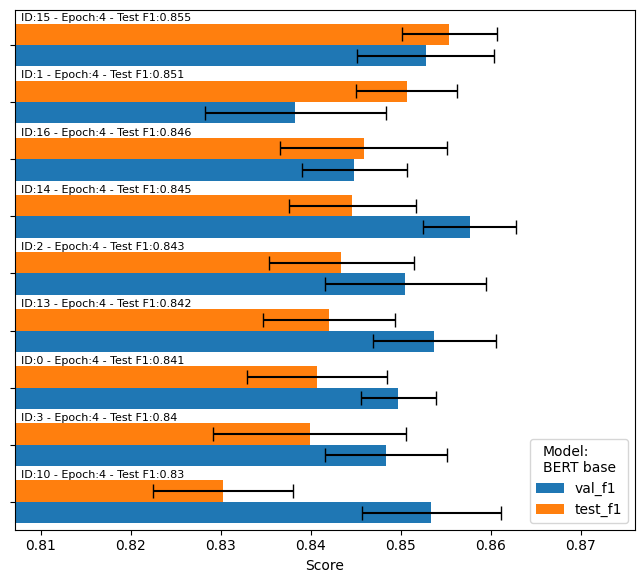
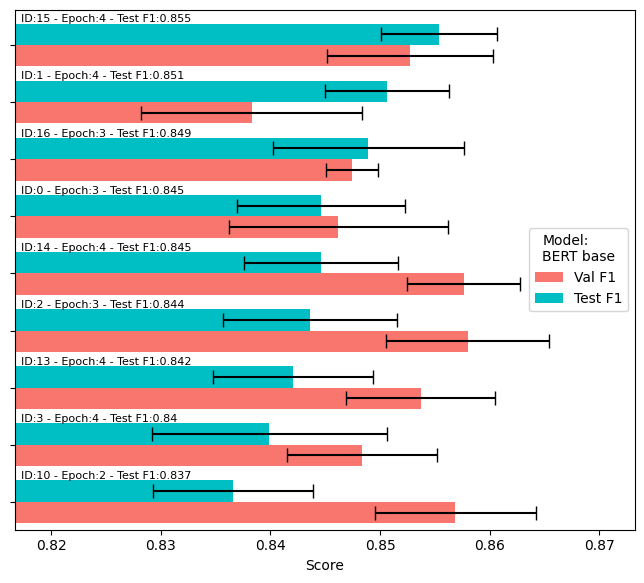
Chart and tables ID fixes

diff --git a/images_tables/1_hate_speech/monolingual_setting/Incel BERT 1M ALL IDs.tex b/images_tables/1_hate_speech/monolingual_setting/Incel BERT 1M ALL IDs.tex
@@ -1,23 +1,23 @@
 \begin{tabular}{rrlrrrrrrrr}
 \toprule
- run\_id &  epoch &         model &  val\_f1 &  val\_f1\_std &  val\_rec &  val\_prec &  test\_f1 &  test\_f1\_std &  test\_rec &  test\_prec \\
+ ID &  Epoch &         Model &  Val F1 &  Val F1 St.Dev &  Val Rec &  Val Prec &  Test F1 &  Test F1 St.Dev &  Test Rec &  Test Prec \\
 \midrule
-      0 &      4 & Incel BERT 1M &   0.875 &       0.005 &    0.894 &     0.856 &    0.872 &        0.006 &     0.883 &      0.861 \\
-     11 &      4 & Incel BERT 1M &   0.883 &       0.001 &    0.891 &     0.875 &    0.866 &        0.001 &     0.878 &      0.855 \\
-     15 &      4 & Incel BERT 1M &   0.859 &       0.004 &    0.861 &     0.858 &    0.865 &        0.004 &     0.884 &      0.848 \\
-     16 &      4 & Incel BERT 1M &   0.860 &       0.007 &    0.887 &     0.835 &    0.856 &        0.005 &     0.888 &      0.826 \\
-     13 &      4 & Incel BERT 1M &   0.873 &       0.006 &    0.878 &     0.869 &    0.855 &        0.005 &     0.867 &      0.842 \\
-      1 &      4 & Incel BERT 1M &   0.857 &       0.004 &    0.870 &     0.845 &    0.854 &        0.002 &     0.885 &      0.826 \\
-     14 &      4 & Incel BERT 1M &   0.876 &       0.006 &    0.887 &     0.864 &    0.853 &        0.005 &     0.873 &      0.833 \\
-     10 &      4 & Incel BERT 1M &   0.879 &       0.003 &    0.887 &     0.872 &    0.853 &        0.003 &     0.860 &      0.845 \\
-      2 &      4 & Incel BERT 1M &   0.886 &       0.004 &    0.908 &     0.866 &    0.852 &        0.003 &     0.860 &      0.844 \\
-      3 &      4 & Incel BERT 1M &   0.876 &       0.003 &    0.886 &     0.866 &    0.842 &        0.011 &     0.862 &      0.823 \\
-      5 &      4 & Incel BERT 1M &   0.705 &       0.013 &    0.674 &     0.741 &    0.752 &        0.008 &     0.783 &      0.725 \\
-      6 &      4 & Incel BERT 1M &   0.627 &       0.009 &    0.601 &     0.655 &    0.652 &        0.005 &     0.944 &      0.498 \\
-      7 &      4 & Incel BERT 1M &   0.562 &       0.019 &    0.472 &     0.694 &    0.638 &        0.015 &     0.588 &      0.700 \\
-     12 &      4 & Incel BERT 1M &   0.490 &       0.012 &    0.351 &     0.816 &    0.582 &        0.017 &     0.438 &      0.868 \\
-      4 &      4 & Incel BERT 1M &   0.559 &       0.004 &    0.443 &     0.756 &    0.542 &        0.009 &     0.442 &      0.702 \\
-      9 &      4 & Incel BERT 1M &   0.501 &       0.009 &    0.535 &     0.471 &    0.494 &        0.009 &     0.507 &      0.483 \\
-      8 &      4 & Incel BERT 1M &   0.346 &       0.004 &    0.629 &     0.239 &    0.344 &        0.002 &     0.601 &      0.241 \\
+  0 &      4 & Incel BERT 1M &   0.875 &          0.005 &    0.894 &     0.856 &    0.872 &           0.006 &     0.883 &      0.861 \\
+ 11 &      4 & Incel BERT 1M &   0.883 &          0.001 &    0.891 &     0.875 &    0.866 &           0.001 &     0.878 &      0.855 \\
+ 15 &      4 & Incel BERT 1M &   0.859 &          0.004 &    0.861 &     0.858 &    0.865 &           0.004 &     0.884 &      0.848 \\
+ 16 &      3 & Incel BERT 1M &   0.859 &          0.002 &    0.882 &     0.838 &    0.859 &           0.002 &     0.882 &      0.838 \\
+ 13 &      1 & Incel BERT 1M &   0.858 &          0.003 &    0.789 &     0.940 &    0.857 &           0.008 &     0.804 &      0.918 \\
+  1 &      2 & Incel BERT 1M &   0.864 &          0.005 &    0.877 &     0.850 &    0.857 &           0.005 &     0.879 &      0.836 \\
+ 14 &      3 & Incel BERT 1M &   0.875 &          0.006 &    0.891 &     0.860 &    0.856 &           0.008 &     0.875 &      0.838 \\
+ 10 &      1 & Incel BERT 1M &   0.866 &          0.003 &    0.878 &     0.854 &    0.855 &           0.003 &     0.877 &      0.833 \\
+  2 &      4 & Incel BERT 1M &   0.886 &          0.004 &    0.908 &     0.866 &    0.852 &           0.003 &     0.860 &      0.844 \\
+  3 &      2 & Incel BERT 1M &   0.869 &          0.007 &    0.887 &     0.851 &    0.845 &           0.005 &     0.874 &      0.818 \\
+  5 &      2 & Incel BERT 1M &   0.699 &          0.017 &    0.641 &     0.770 &    0.753 &           0.012 &     0.758 &      0.750 \\
+  6 &      4 & Incel BERT 1M &   0.627 &          0.009 &    0.601 &     0.655 &    0.652 &           0.005 &     0.944 &      0.498 \\
+  7 &      3 & Incel BERT 1M &   0.566 &          0.011 &    0.494 &     0.664 &    0.647 &           0.014 &     0.612 &      0.686 \\
+ 12 &      4 & Incel BERT 1M &   0.490 &          0.012 &    0.351 &     0.816 &    0.582 &           0.017 &     0.438 &      0.868 \\
+  4 &      4 & Incel BERT 1M &   0.559 &          0.004 &    0.443 &     0.756 &    0.542 &           0.009 &     0.442 &      0.702 \\
+  9 &      3 & Incel BERT 1M &   0.516 &          0.006 &    0.558 &     0.480 &    0.519 &           0.005 &     0.538 &      0.502 \\
+  8 &      4 & Incel BERT 1M &   0.346 &          0.004 &    0.629 &     0.239 &    0.344 &           0.002 &     0.601 &      0.241 \\
 \bottomrule
 \end{tabular}

diff --git a/images_tables/1_hate_speech/monolingual_setting/BERT base ALL IDs.tex b/images_tables/1_hate_speech/monolingual_setting/BERT base ALL IDs.tex
@@ -1,23 +1,23 @@
 \begin{tabular}{rrlrrrrrrrr}
 \toprule
- run\_id &  epoch &     model &  val\_f1 &  val\_f1\_std &  val\_rec &  val\_prec &  test\_f1 &  test\_f1\_std &  test\_rec &  test\_prec \\
+ ID &  Epoch &     Model &  Val F1 &  Val F1 St.Dev &  Val Rec &  Val Prec &  Test F1 &  Test F1 St.Dev &  Test Rec &  Test Prec \\
 \midrule
-     11 &      2 & BERT base &   0.873 &       0.004 &    0.897 &     0.850 &    0.862 &        0.002 &     0.885 &      0.839 \\
-      1 &      2 & BERT base &   0.824 &       0.012 &    0.791 &     0.861 &    0.847 &        0.007 &     0.823 &      0.874 \\
-     16 &      2 & BERT base &   0.851 &       0.006 &    0.808 &     0.898 &    0.844 &        0.006 &     0.813 &      0.878 \\
-      2 &      2 & BERT base &   0.856 &       0.008 &    0.859 &     0.855 &    0.840 &        0.011 &     0.842 &      0.839 \\
-     15 &      2 & BERT base &   0.847 &       0.004 &    0.889 &     0.809 &    0.839 &        0.010 &     0.886 &      0.797 \\
-      0 &      2 & BERT base &   0.851 &       0.009 &    0.870 &     0.833 &    0.838 &        0.008 &     0.854 &      0.824 \\
-     13 &      2 & BERT base &   0.843 &       0.008 &    0.861 &     0.826 &    0.837 &        0.008 &     0.854 &      0.821 \\
-     10 &      2 & BERT base &   0.857 &       0.007 &    0.874 &     0.840 &    0.837 &        0.007 &     0.854 &      0.820 \\
-     14 &      2 & BERT base &   0.862 &       0.009 &    0.888 &     0.838 &    0.834 &        0.007 &     0.863 &      0.808 \\
-      3 &      2 & BERT base &   0.848 &       0.007 &    0.847 &     0.850 &    0.829 &        0.006 &     0.843 &      0.815 \\
-      6 &      2 & BERT base &   0.569 &       0.017 &    0.508 &     0.648 &    0.648 &        0.016 &     0.884 &      0.511 \\
-      5 &      2 & BERT base &   0.527 &       0.026 &    0.401 &     0.772 &    0.603 &        0.022 &     0.509 &      0.743 \\
-      9 &      2 & BERT base &   0.531 &       0.011 &    0.555 &     0.510 &    0.575 &        0.009 &     0.621 &      0.536 \\
-     12 &      2 & BERT base &   0.510 &       0.014 &    0.387 &     0.751 &    0.548 &        0.015 &     0.427 &      0.764 \\
-      7 &      2 & BERT base &   0.431 &       0.034 &    0.314 &     0.696 &    0.542 &        0.037 &     0.428 &      0.745 \\
-      4 &      2 & BERT base &   0.403 &       0.035 &    0.282 &     0.721 &    0.405 &        0.047 &     0.288 &      0.695 \\
-      8 &      2 & BERT base &   0.358 &       0.008 &    0.562 &     0.264 &    0.340 &        0.006 &     0.557 &      0.246 \\
+ 11 &      2 & BERT base &   0.873 &          0.004 &    0.897 &     0.850 &    0.862 &           0.002 &     0.885 &      0.839 \\
+ 15 &      4 & BERT base &   0.853 &          0.008 &    0.854 &     0.852 &    0.855 &           0.005 &     0.863 &      0.848 \\
+  1 &      4 & BERT base &   0.838 &          0.010 &    0.834 &     0.843 &    0.851 &           0.006 &     0.852 &      0.849 \\
+ 16 &      3 & BERT base &   0.847 &          0.002 &    0.853 &     0.843 &    0.849 &           0.009 &     0.862 &      0.837 \\
+  0 &      3 & BERT base &   0.846 &          0.010 &    0.851 &     0.845 &    0.845 &           0.008 &     0.843 &      0.849 \\
+ 14 &      4 & BERT base &   0.858 &          0.005 &    0.858 &     0.857 &    0.845 &           0.007 &     0.841 &      0.848 \\
+  2 &      3 & BERT base &   0.858 &          0.007 &    0.858 &     0.859 &    0.844 &           0.008 &     0.835 &      0.853 \\
+ 13 &      4 & BERT base &   0.854 &          0.007 &    0.857 &     0.851 &    0.842 &           0.007 &     0.842 &      0.842 \\
+  3 &      4 & BERT base &   0.848 &          0.007 &    0.846 &     0.851 &    0.840 &           0.011 &     0.840 &      0.840 \\
+ 10 &      2 & BERT base &   0.857 &          0.007 &    0.874 &     0.840 &    0.837 &           0.007 &     0.854 &      0.820 \\
+  5 &      3 & BERT base &   0.621 &          0.019 &    0.548 &     0.718 &    0.658 &           0.010 &     0.622 &      0.700 \\
+  6 &      3 & BERT base &   0.557 &          0.052 &    0.485 &     0.664 &    0.649 &           0.021 &     0.850 &      0.527 \\
+  7 &      3 & BERT base &   0.538 &          0.024 &    0.459 &     0.653 &    0.609 &           0.019 &     0.562 &      0.666 \\
+  9 &      2 & BERT base &   0.531 &          0.011 &    0.555 &     0.510 &    0.575 &           0.009 &     0.621 &      0.536 \\
+ 12 &      2 & BERT base &   0.510 &          0.014 &    0.387 &     0.751 &    0.548 &           0.015 &     0.427 &      0.764 \\
+  4 &      3 & BERT base &   0.431 &          0.019 &    0.310 &     0.710 &    0.444 &           0.034 &     0.330 &      0.682 \\
+  8 &      3 & BERT base &   0.353 &          0.014 &    0.528 &     0.270 &    0.339 &           0.012 &     0.531 &      0.253 \\
 \bottomrule
 \end{tabular}

diff --git a/images_tables/1_hate_speech/monolingual_setting/All Models - ID 0.tex b/images_tables/1_hate_speech/monolingual_setting/All Models - ID 0.tex
@@ -1,19 +1,17 @@
-\begin{tabular}{rl|cccc|cccc}
-\hline
-              &                    &  \multicolumn{4}{c|}{Validation}              & \multicolumn{4}{c}{Test} \\
-\hline
-        Epoch &              Model &      F1 &      St.Dev &   Rec & Prec &       F1 &       St.Dev &  Rec   &  Prec \\
-\hline
-            4 &      Incel BERT 1M &   0.875 &       0.005 &    0.894 &     0.856 &    0.872 &        0.006 &     0.883 &      0.861 \\
-            3 &    Incel BERT 100k &   0.865 &       0.006 &    0.887 &     0.846 &    0.868 &        0.006 &     0.882 &      0.855 \\
-            4 &     Incel BERT 10k &   0.867 &       0.005 &    0.870 &     0.865 &    0.865 &        0.008 &     0.855 &      0.876 \\
-            4 &   Incel RoBERTa 1M &   0.860 &       0.005 &    0.864 &     0.857 &    0.857 &        0.005 &     0.878 &      0.837 \\
-            4 &           HateBERT &   0.853 &       0.007 &    0.845 &     0.861 &    0.853 &        0.008 &     0.849 &      0.857 \\
-            3 &         HateXplain &   0.856 &       0.005 &    0.854 &     0.859 &    0.847 &        0.005 &     0.836 &      0.859 \\
-            3 &          BERT base &   0.846 &       0.010 &    0.851 &     0.845 &    0.845 &        0.008 &     0.843 &      0.849 \\
-            4 & Incel RoBERTa 100k &   0.864 &       0.008 &    0.870 &     0.858 &    0.844 &        0.005 &     0.853 &      0.836 \\
-            4 &  Incel RoBERTa 10k &   0.856 &       0.005 &    0.870 &     0.842 &    0.843 &        0.005 &     0.863 &      0.824 \\
-            4 &       RoBERTa base &   0.851 &       0.007 &    0.857 &     0.845 &    0.841 &        0.005 &     0.851 &      0.831 \\
-            3 &                CNN &   0.823 &       0.013 &    0.840 &     0.813 &    0.812 &        0.014 &     0.844 &      0.791 \\
-\hline
+\begin{tabular}{rrlrrrrrrrr}
+\toprule
+ ID &  Epoch &              Model &  Val F1 &  Val F1 St.Dev &  Val Rec &  Val Prec &  Test F1 &  Test F1 St.Dev &  Test Rec &  Test Prec \\
+\midrule
+  0 &      4 &      Incel BERT 1M &   0.875 &          0.005 &    0.894 &     0.856 &    0.872 &           0.006 &     0.883 &      0.861 \\
+  0 &      3 &    Incel BERT 100k &   0.865 &          0.006 &    0.887 &     0.846 &    0.868 &           0.006 &     0.882 &      0.855 \\
+  0 &      4 &     Incel BERT 10k &   0.867 &          0.005 &    0.870 &     0.865 &    0.865 &           0.008 &     0.855 &      0.876 \\
+  0 &      4 &   Incel RoBERTa 1M &   0.860 &          0.005 &    0.864 &     0.857 &    0.857 &           0.005 &     0.878 &      0.837 \\
+  0 &      4 &           HateBERT &   0.853 &          0.007 &    0.845 &     0.861 &    0.853 &           0.008 &     0.849 &      0.857 \\
+  0 &      3 &         HateXplain &   0.856 &          0.005 &    0.854 &     0.859 &    0.847 &           0.005 &     0.836 &      0.859 \\
+  0 &      3 &          BERT base &   0.846 &          0.010 &    0.851 &     0.845 &    0.845 &           0.008 &     0.843 &      0.849 \\
+  0 &      4 & Incel RoBERTa 100k &   0.864 &          0.008 &    0.870 &     0.858 &    0.844 &           0.005 &     0.853 &      0.836 \\
+  0 &      4 &  Incel RoBERTa 10k &   0.856 &          0.005 &    0.870 &     0.842 &    0.843 &           0.005 &     0.863 &      0.824 \\
+  0 &      4 &       RoBERTa base &   0.851 &          0.007 &    0.857 &     0.845 &    0.841 &           0.005 &     0.851 &      0.831 \\
+  0 &      3 &                CNN &   0.823 &          0.013 &    0.840 &     0.813 &    0.812 &           0.014 &     0.844 &      0.791 \\
+\bottomrule
 \end{tabular}

diff --git a/images_tables/1_hate_speech/monolingual_setting/Incel BERT 1M ALL incelsis IDs.tex b/images_tables/1_hate_speech/monolingual_setting/Incel BERT 1M ALL incelsis IDs.tex
@@ -1,17 +1,15 @@
-\begin{tabular}{rr|cccc|cccc}
-\hline
-        &        &             \multicolumn{4}{c|}{Validation}   & \multicolumn{4}{c}{Test} \\
-\hline
-     ID &  Epoch &       F1 &      St.Dev &      Rec &      Prec &       F1 &       St.Dev &  Rec      &       Prec \\
-\hline
-      0 &      4 &    0.875 &       0.005 &    0.894 &     0.856 &    0.872 &        0.006 &     0.883 &      0.861 \\
-     15 &      4 &    0.859 &       0.004 &    0.861 &     0.858 &    0.865 &        0.004 &     0.884 &      0.848 \\
-     16 &      4 &    0.860 &       0.007 &    0.887 &     0.835 &    0.856 &        0.005 &     0.888 &      0.826 \\
-     13 &      4 &    0.873 &       0.006 &    0.878 &     0.869 &    0.855 &        0.005 &     0.867 &      0.842 \\
-      1 &      4 &    0.857 &       0.004 &    0.870 &     0.845 &    0.854 &        0.002 &     0.885 &      0.826 \\
-     14 &      4 &    0.876 &       0.006 &    0.887 &     0.864 &    0.853 &        0.005 &     0.873 &      0.833 \\
-     10 &      4 &    0.879 &       0.003 &    0.887 &     0.872 &    0.853 &        0.003 &     0.860 &      0.845 \\
-      2 &      4 &    0.886 &       0.004 &    0.908 &     0.866 &    0.852 &        0.003 &     0.860 &      0.844 \\
-      3 &      4 &    0.876 &       0.003 &    0.886 &     0.866 &    0.842 &        0.011 &     0.862 &      0.823 \\
-\hline
+\begin{tabular}{rrlrrrrrrrr}
+\toprule
+ ID &  Epoch &         Model &  Val F1 &  Val F1 St.Dev &  Val Rec &  Val Prec &  Test F1 &  Test F1 St.Dev &  Test Rec &  Test Prec \\
+\midrule
+  0 &      4 & Incel BERT 1M &   0.875 &          0.005 &    0.894 &     0.856 &    0.872 &           0.006 &     0.883 &      0.861 \\
+ 15 &      4 & Incel BERT 1M &   0.859 &          0.004 &    0.861 &     0.858 &    0.865 &           0.004 &     0.884 &      0.848 \\
+ 16 &      3 & Incel BERT 1M &   0.859 &          0.002 &    0.882 &     0.838 &    0.859 &           0.002 &     0.882 &      0.838 \\
+ 13 &      1 & Incel BERT 1M &   0.858 &          0.003 &    0.789 &     0.940 &    0.857 &           0.008 &     0.804 &      0.918 \\
+  1 &      2 & Incel BERT 1M &   0.864 &          0.005 &    0.877 &     0.850 &    0.857 &           0.005 &     0.879 &      0.836 \\
+ 14 &      3 & Incel BERT 1M &   0.875 &          0.006 &    0.891 &     0.860 &    0.856 &           0.008 &     0.875 &      0.838 \\
+ 10 &      1 & Incel BERT 1M &   0.866 &          0.003 &    0.878 &     0.854 &    0.855 &           0.003 &     0.877 &      0.833 \\
+  2 &      4 & Incel BERT 1M &   0.886 &          0.004 &    0.908 &     0.866 &    0.852 &           0.003 &     0.860 &      0.844 \\
+  3 &      2 & Incel BERT 1M &   0.869 &          0.007 &    0.887 &     0.851 &    0.845 &           0.005 &     0.874 &      0.818 \\
+\bottomrule
 \end{tabular}

diff --git a/images_tables/1_hate_speech/monolingual_setting/BERT base ALL incelsis IDs.tex b/images_tables/1_hate_speech/monolingual_setting/BERT base ALL incelsis IDs.tex
@@ -1,17 +1,15 @@
-\begin{tabular}{rr|cccc|cccc}
-\hline
-        &        &             \multicolumn{4}{c|}{Validation}             & \multicolumn{4}{c}{Test} \\
-\hline
-     ID &  Epoch &       F1 &      St.Dev &   Rec & Prec &       F1 &       St.Dev &  Rec   &  Prec \\
-\hline
-     15 &      4 &    0.853 &       0.008 &    0.854 &     0.852 &    0.855 &        0.005 &     0.863 &      0.848 \\
-      1 &      4 &    0.838 &       0.010 &    0.834 &     0.843 &    0.851 &        0.006 &     0.852 &      0.849 \\
-     16 &      4 &    0.845 &       0.006 &    0.851 &     0.839 &    0.846 &        0.009 &     0.859 &      0.833 \\
-     14 &      4 &    0.858 &       0.005 &    0.858 &     0.857 &    0.845 &        0.007 &     0.841 &      0.848 \\
-      2 &      4 &    0.850 &       0.009 &    0.861 &     0.840 &    0.843 &        0.008 &     0.846 &      0.841 \\
-     13 &      4 &    0.854 &       0.007 &    0.857 &     0.851 &    0.842 &        0.007 &     0.842 &      0.842 \\
-      0 &      4 &    0.850 &       0.004 &    0.856 &     0.844 &    0.841 &        0.008 &     0.842 &      0.840 \\
-      3 &      4 &    0.848 &       0.007 &    0.846 &     0.851 &    0.840 &        0.011 &     0.840 &      0.840 \\
-     10 &      4 &    0.853 &       0.008 &    0.857 &     0.850 &    0.830 &        0.008 &     0.820 &      0.841 \\
-\hline 
+\begin{tabular}{rrlrrrrrrrr}
+\toprule
+ ID &  Epoch &     Model &  Val F1 &  Val F1 St.Dev &  Val Rec &  Val Prec &  Test F1 &  Test F1 St.Dev &  Test Rec &  Test Prec \\
+\midrule
+ 15 &      4 & BERT base &   0.853 &          0.008 &    0.854 &     0.852 &    0.855 &           0.005 &     0.863 &      0.848 \\
+  1 &      4 & BERT base &   0.838 &          0.010 &    0.834 &     0.843 &    0.851 &           0.006 &     0.852 &      0.849 \\
+ 16 &      3 & BERT base &   0.847 &          0.002 &    0.853 &     0.843 &    0.849 &           0.009 &     0.862 &      0.837 \\
+  0 &      3 & BERT base &   0.846 &          0.010 &    0.851 &     0.845 &    0.845 &           0.008 &     0.843 &      0.849 \\
+ 14 &      4 & BERT base &   0.858 &          0.005 &    0.858 &     0.857 &    0.845 &           0.007 &     0.841 &      0.848 \\
+  2 &      3 & BERT base &   0.858 &          0.007 &    0.858 &     0.859 &    0.844 &           0.008 &     0.835 &      0.853 \\
+ 13 &      4 & BERT base &   0.854 &          0.007 &    0.857 &     0.851 &    0.842 &           0.007 &     0.842 &      0.842 \\
+  3 &      4 & BERT base &   0.848 &          0.007 &    0.846 &     0.851 &    0.840 &           0.011 &     0.840 &      0.840 \\
+ 10 &      2 & BERT base &   0.857 &          0.007 &    0.874 &     0.840 &    0.837 &           0.007 &     0.854 &      0.820 \\
+\bottomrule
 \end{tabular}

diff --git a/images_tables/1_hate_speech/monolingual_setting/Incel BERT 1M ALL NON-incelsis IDs.tex b/images_tables/1_hate_speech/monolingual_setting/Incel BERT 1M ALL NON-incelsis IDs.tex
@@ -1,14 +1,14 @@
 \begin{tabular}{rrlrrrrrrrr}
 \toprule
- run\_id &  epoch &         model &  val\_f1 &  val\_f1\_std &  val\_rec &  val\_prec &  test\_f1 &  test\_f1\_std &  test\_rec &  test\_prec \\
+ ID &  Epoch &         Model &  Val F1 &  Val F1 St.Dev &  Val Rec &  Val Prec &  Test F1 &  Test F1 St.Dev &  Test Rec &  Test Prec \\
 \midrule
-     11 &      4 & Incel BERT 1M &   0.883 &       0.001 &    0.891 &     0.875 &    0.866 &        0.001 &     0.878 &      0.855 \\
-      5 &      4 & Incel BERT 1M &   0.705 &       0.013 &    0.674 &     0.741 &    0.752 &        0.008 &     0.783 &      0.725 \\
-      6 &      4 & Incel BERT 1M &   0.627 &       0.009 &    0.601 &     0.655 &    0.652 &        0.005 &     0.944 &      0.498 \\
-      7 &      4 & Incel BERT 1M &   0.562 &       0.019 &    0.472 &     0.694 &    0.638 &        0.015 &     0.588 &      0.700 \\
-     12 &      4 & Incel BERT 1M &   0.490 &       0.012 &    0.351 &     0.816 &    0.582 &        0.017 &     0.438 &      0.868 \\
-      4 &      4 & Incel BERT 1M &   0.559 &       0.004 &    0.443 &     0.756 &    0.542 &        0.009 &     0.442 &      0.702 \\
-      9 &      4 & Incel BERT 1M &   0.501 &       0.009 &    0.535 &     0.471 &    0.494 &        0.009 &     0.507 &      0.483 \\
-      8 &      4 & Incel BERT 1M &   0.346 &       0.004 &    0.629 &     0.239 &    0.344 &        0.002 &     0.601 &      0.241 \\
+ 11 &      4 & Incel BERT 1M &   0.883 &          0.001 &    0.891 &     0.875 &    0.866 &           0.001 &     0.878 &      0.855 \\
+  5 &      2 & Incel BERT 1M &   0.699 &          0.017 &    0.641 &     0.770 &    0.753 &           0.012 &     0.758 &      0.750 \\
+  6 &      2 & Incel BERT 1M &   0.615 &          0.014 &    0.583 &     0.650 &    0.653 &           0.022 &     0.931 &      0.504 \\
+  7 &      3 & Incel BERT 1M &   0.566 &          0.011 &    0.494 &     0.664 &    0.647 &           0.014 &     0.612 &      0.686 \\
+ 12 &      4 & Incel BERT 1M &   0.490 &          0.012 &    0.351 &     0.816 &    0.582 &           0.017 &     0.438 &      0.868 \\
+  4 &      4 & Incel BERT 1M &   0.559 &          0.004 &    0.443 &     0.756 &    0.542 &           0.009 &     0.442 &      0.702 \\
+  9 &      3 & Incel BERT 1M &   0.516 &          0.006 &    0.558 &     0.480 &    0.519 &           0.005 &     0.538 &      0.502 \\
+  8 &      2 & Incel BERT 1M &   0.340 &          0.004 &    0.645 &     0.231 &    0.334 &           0.003 &     0.610 &      0.230 \\
 \bottomrule
 \end{tabular}

diff --git a/images_tables/1_hate_speech/monolingual_setting/BERT base ALL NON-incelsis IDs.tex b/images_tables/1_hate_speech/monolingual_setting/BERT base ALL NON-incelsis IDs.tex
@@ -1,14 +1,14 @@
 \begin{tabular}{rrlrrrrrrrr}
 \toprule
- run\_id &  epoch &     model &  val\_f1 &  val\_f1\_std &  val\_rec &  val\_prec &  test\_f1 &  test\_f1\_std &  test\_rec &  test\_prec \\
+ ID &  Epoch &     Model &  Val F1 &  Val F1 St.Dev &  Val Rec &  Val Prec &  Test F1 &  Test F1 St.Dev &  Test Rec &  Test Prec \\
 \midrule
-     11 &      2 & BERT base &   0.873 &       0.004 &    0.897 &     0.850 &    0.862 &        0.002 &     0.885 &      0.839 \\
-      6 &      2 & BERT base &   0.569 &       0.017 &    0.508 &     0.648 &    0.648 &        0.016 &     0.884 &      0.511 \\
-      5 &      2 & BERT base &   0.527 &       0.026 &    0.401 &     0.772 &    0.603 &        0.022 &     0.509 &      0.743 \\
-      9 &      2 & BERT base &   0.531 &       0.011 &    0.555 &     0.510 &    0.575 &        0.009 &     0.621 &      0.536 \\
-     12 &      2 & BERT base &   0.510 &       0.014 &    0.387 &     0.751 &    0.548 &        0.015 &     0.427 &      0.764 \\
-      7 &      2 & BERT base &   0.431 &       0.034 &    0.314 &     0.696 &    0.542 &        0.037 &     0.428 &      0.745 \\
-      4 &      2 & BERT base &   0.403 &       0.035 &    0.282 &     0.721 &    0.405 &        0.047 &     0.288 &      0.695 \\
-      8 &      2 & BERT base &   0.358 &       0.008 &    0.562 &     0.264 &    0.340 &        0.006 &     0.557 &      0.246 \\
+ 11 &      2 & BERT base &   0.873 &          0.004 &    0.897 &     0.850 &    0.862 &           0.002 &     0.885 &      0.839 \\
+  5 &      3 & BERT base &   0.621 &          0.019 &    0.548 &     0.718 &    0.658 &           0.010 &     0.622 &      0.700 \\
+  6 &      4 & BERT base &   0.594 &          0.019 &    0.551 &     0.647 &    0.650 &           0.012 &     0.906 &      0.508 \\
+  7 &      3 & BERT base &   0.538 &          0.024 &    0.459 &     0.653 &    0.609 &           0.019 &     0.562 &      0.666 \\
+  9 &      2 & BERT base &   0.531 &          0.011 &    0.555 &     0.510 &    0.575 &           0.009 &     0.621 &      0.536 \\
+ 12 &      2 & BERT base &   0.510 &          0.014 &    0.387 &     0.751 &    0.548 &           0.015 &     0.427 &      0.764 \\
+  4 &      3 & BERT base &   0.431 &          0.019 &    0.310 &     0.710 &    0.444 &           0.034 &     0.330 &      0.682 \\
+  8 &      4 & BERT base &   0.364 &          0.008 &    0.604 &     0.263 &    0.347 &           0.006 &     0.601 &      0.246 \\
 \bottomrule
 \end{tabular}

diff --git a/images_tables/1_hate_speech/monolingual_setting/template_fixed_ID.tex b/images_tables/1_hate_speech/monolingual_setting/template_fixed_ID.tex
@@ -1,0 +1,19 @@
+\begin{tabular}{rl|cccc|cccc}
+\hline
+              &                    &  \multicolumn{4}{c|}{Validation}              & \multicolumn{4}{c}{Test} \\
+\hline
+        Epoch &              Model &      F1 &      St.Dev &   Rec & Prec &       F1 &       St.Dev &  Rec   &  Prec \\
+\hline
+            4 &      Incel BERT 1M &   0.875 &       0.005 &    0.894 &     0.856 &    0.872 &        0.006 &     0.883 &      0.861 \\
+            3 &    Incel BERT 100k &   0.865 &       0.006 &    0.887 &     0.846 &    0.868 &        0.006 &     0.882 &      0.855 \\
+            4 &     Incel BERT 10k &   0.867 &       0.005 &    0.870 &     0.865 &    0.865 &        0.008 &     0.855 &      0.876 \\
+            4 &   Incel RoBERTa 1M &   0.860 &       0.005 &    0.864 &     0.857 &    0.857 &        0.005 &     0.878 &      0.837 \\
+            4 &           HateBERT &   0.853 &       0.007 &    0.845 &     0.861 &    0.853 &        0.008 &     0.849 &      0.857 \\
+            3 &         HateXplain &   0.856 &       0.005 &    0.854 &     0.859 &    0.847 &        0.005 &     0.836 &      0.859 \\
+            3 &          BERT base &   0.846 &       0.010 &    0.851 &     0.845 &    0.845 &        0.008 &     0.843 &      0.849 \\
+            4 & Incel RoBERTa 100k &   0.864 &       0.008 &    0.870 &     0.858 &    0.844 &        0.005 &     0.853 &      0.836 \\
+            4 &  Incel RoBERTa 10k &   0.856 &       0.005 &    0.870 &     0.842 &    0.843 &        0.005 &     0.863 &      0.824 \\
+            4 &       RoBERTa base &   0.851 &       0.007 &    0.857 &     0.845 &    0.841 &        0.005 &     0.851 &      0.831 \\
+            3 &                CNN &   0.823 &       0.013 &    0.840 &     0.813 &    0.812 &        0.014 &     0.844 &      0.791 \\
+\hline
+\end{tabular}

diff --git a/images_tables/1_hate_speech/monolingual_setting/template_ALL_IDs.tex b/images_tables/1_hate_speech/monolingual_setting/template_ALL_IDs.tex
@@ -1,0 +1,17 @@
+\begin{tabular}{rr|cccc|cccc}
+\hline
+        &        &             \multicolumn{4}{c|}{Validation}   & \multicolumn{4}{c}{Test} \\
+\hline
+     ID &  Epoch &       F1 &      St.Dev &      Rec &      Prec &       F1 &       St.Dev &  Rec      &       Prec \\
+\hline
+      0 &      4 &    0.875 &       0.005 &    0.894 &     0.856 &    0.872 &        0.006 &     0.883 &      0.861 \\
+     15 &      4 &    0.859 &       0.004 &    0.861 &     0.858 &    0.865 &        0.004 &     0.884 &      0.848 \\
+     16 &      4 &    0.860 &       0.007 &    0.887 &     0.835 &    0.856 &        0.005 &     0.888 &      0.826 \\
+     13 &      4 &    0.873 &       0.006 &    0.878 &     0.869 &    0.855 &        0.005 &     0.867 &      0.842 \\
+      1 &      4 &    0.857 &       0.004 &    0.870 &     0.845 &    0.854 &        0.002 &     0.885 &      0.826 \\
+     14 &      4 &    0.876 &       0.006 &    0.887 &     0.864 &    0.853 &        0.005 &     0.873 &      0.833 \\
+     10 &      4 &    0.879 &       0.003 &    0.887 &     0.872 &    0.853 &        0.003 &     0.860 &      0.845 \\
+      2 &      4 &    0.886 &       0.004 &    0.908 &     0.866 &    0.852 &        0.003 &     0.860 &      0.844 \\
+      3 &      4 &    0.876 &       0.003 &    0.886 &     0.866 &    0.842 &        0.011 &     0.862 &      0.823 \\
+\hline
+\end{tabular}

diff --git a/images_tables/1_hate_speech/monolingual_setting/Best and Baseline - ID -1 (random init).tex b/images_tables/1_hate_speech/monolingual_setting/Best and Baseline - ID -1 (random init).tex
@@ -1,10 +1,8 @@
-\begin{tabular}{l|rrrr|rrrr}
-\hline
-                         &  \multicolumn{4}{c|}{Validation}             & \multicolumn{4}{c}{Test} \\
-\hline
-                   Model &      F1 &      St.Dev &   Rec & Prec &       F1 &       St.Dev &  Rec   &  Prec \\
-\hline
-               BERT base &   0.419 &       0.222 &    0.634 &     0.389 &    0.397 &        0.206 &     0.634 &      0.368 \\
-           Incel BERT 1M &   0.382 &       0.194 &    0.471 &     0.479 &    0.376 &        0.181 &     0.488 &      0.364 \\
-\hline
+\begin{tabular}{rrlrrrrrrrr}
+\toprule
+ ID &  Epoch &         Model &  Val F1 &  Val F1 St.Dev &  Val Rec &  Val Prec &  Test F1 &  Test F1 St.Dev &  Test Rec &  Test Prec \\
+\midrule
+ -1 &      0 &     BERT base &   0.419 &          0.222 &    0.634 &     0.389 &    0.397 &           0.206 &     0.634 &      0.368 \\
+ -1 &      0 & Incel BERT 1M &   0.382 &          0.194 &    0.471 &     0.479 &    0.376 &           0.181 &     0.488 &      0.364 \\
+\bottomrule
 \end{tabular}
